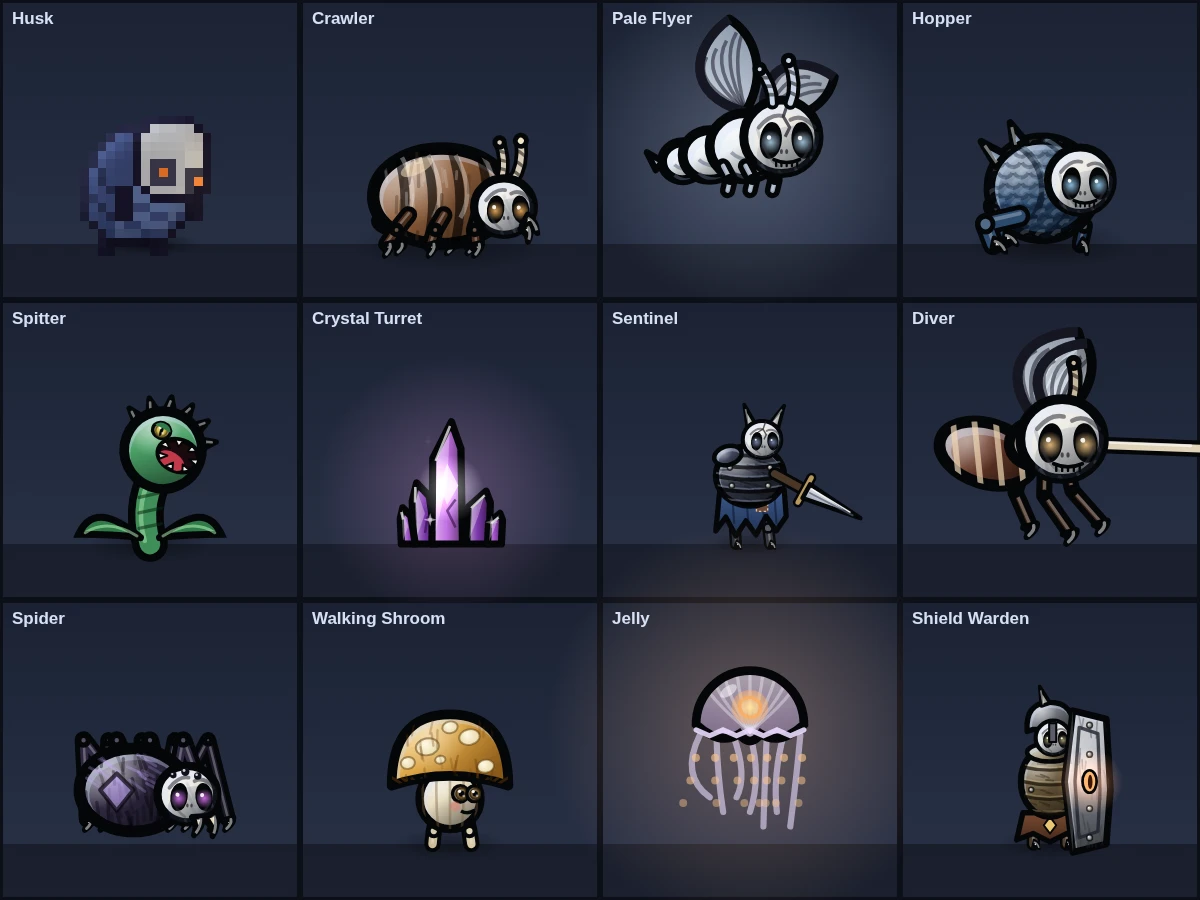
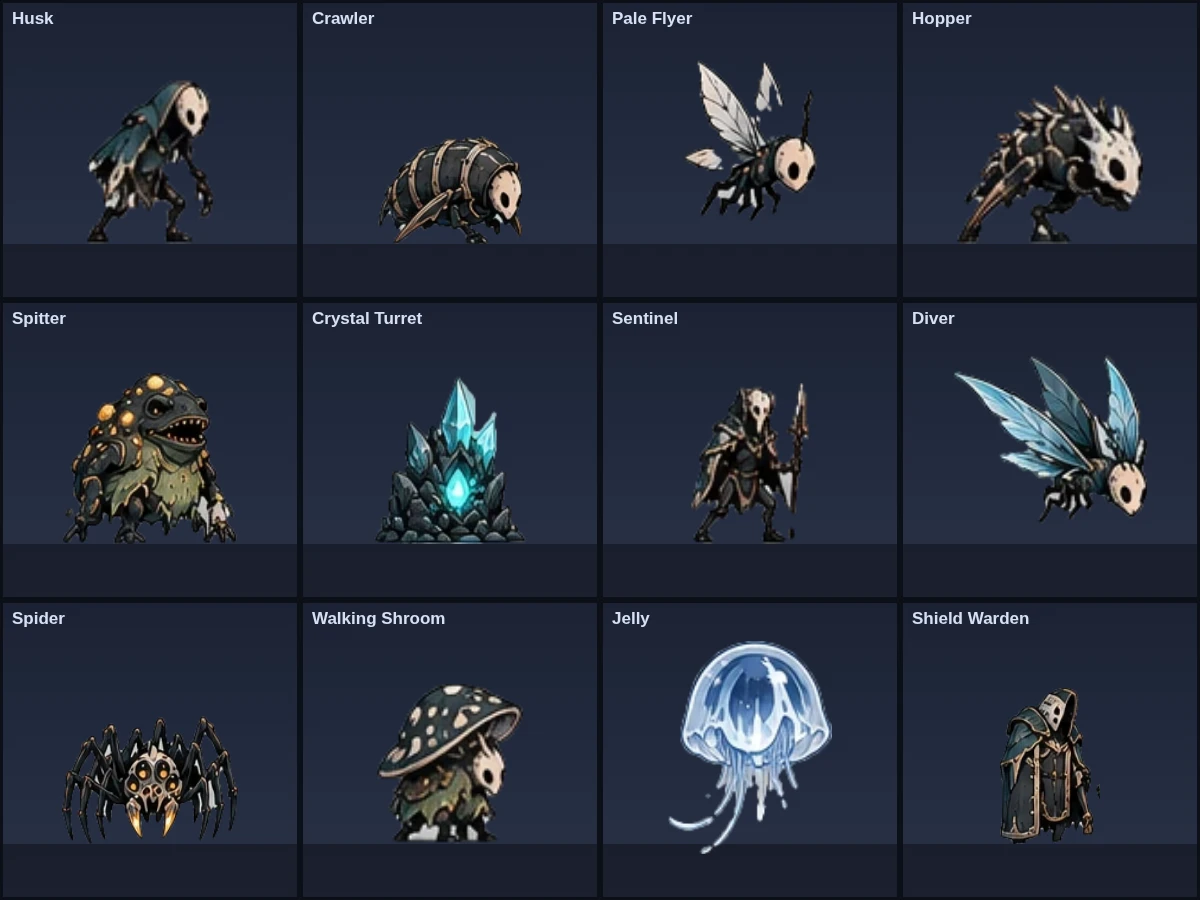
Creatures: the 28 pose sheets cut and packed, every ordinary creature now drawn from its own poses with light motion

diff --git a/duskwell/js/art_frames.js b/duskwell/js/art_frames.js
@@ -1,0 +1,137 @@
+'use strict';
+// The creatures drawn from the owner's pose sheet (art/creatures/creatures.webp, cut and packed by tools/sprites/cut_creatures.py).
+// Each creature has a few poses (idle first); this picks one from what the creature is doing and moves it a little (breathing,
+// walking bounce, squash before an attack, spinning when it rolls). The poses are used exactly as drawn, never repainted.
+// Creatures that are still missing a pose, or are in a state the sheet does not show (buried, a pile of bones), fall back
+// to the old procedural drawing, so nothing disappears.
+const FrameArt = (() => {
+  const img = new Image(); img.src = 'art/creatures/creatures.webp';
+  const ready = () => img.complete && img.naturalWidth > 0;
+  // per creature: which poses to use for idle / move / attack (/ air up, air down), how big the first idle pose is
+  // compared with the creature's box (h: of its height, w: cap by its width), and a few special switches
+  const CFG = {
+    husk: { idle: [1], move: [1, 2], atk: [2], h: 1.15 },
+    crawler: { idle: [0], move: [0, 1], atk: [1], h: 1.2, w: 1.35 },
+    flyer: { idle: [0, 1], move: [0, 1], atk: [2], h: 1.35, rate: 9 },
+    hopper: { idle: [0], move: [0], atk: [0], air: [1, 2], h: 1.15, w: 1.5 },
+    spitter: { idle: [2], move: [2], atk: [0, 1], h: 1.2 },
+    shard: { idle: [0], move: [0], atk: [1], h: 1.2 },
+    sentinel: { idle: [0], move: [3, 0], atk: [2], h: 1.12 },
+    diver: { idle: [2], move: [2], atk: [3], h: 1.4, rate: 10 },
+    spider: { idle: [0], move: [0, 2], atk: [2], h: 1.3, w: 1.5 },
+    shroom: { idle: [0], move: [0, 1, 2], atk: [1], h: 1.15 },
+    jelly: { idle: [0, 1], move: [0, 1], atk: [1], h: 1.3, bob: 3 },
+    warden: { idle: [0], move: [1, 3], atk: [2], h: 1.1 },
+    ram: { idle: [0], move: [1], atk: [2], h: 1.15, w: 1.35 },
+    mole: { idle: [0], move: [1, 2], atk: [3], h: 1.2, w: 1.5, orig: e => e.buried },
+    lavaworm: { idle: [0], move: [0], atk: [2], h: 1.3, w: 1.55, orig: e => e.buried },
+    imp: { idle: [0], move: [1, 2], atk: [3], h: 1.15 },
+    veil: { idle: [0], move: [1, 2], atk: [3, 4], h: 1.1, alpha: true, bob: 3 },
+    roller: { idle: [0], move: [0, 1], atk: [2, 3], h: 1.2, w: 1.35, spinAtk: true },
+    slime: { idle: [0], move: [0, 2], atk: [1], h: 1.2, w: 1.35 },
+    chainman: { idle: [0], move: [0], atk: [0], h: 1.1, crop: [0, 0.7], extra: 'chain' },
+    moth: { idle: [0, 1], move: [0, 1], atk: [1], h: 1.5, rate: 8 },
+    icicle: { idle: [0], move: [0], atk: [1], top: true, h: 1.0 },
+    heap: { idle: [0], move: [0], atk: [0], h: 1.15, orig: e => e.currentState === 'pile' || e.currentState === 'rising' || e.currentState === 'skull' },
+    skullbat: { idle: [1], move: [1, 3], atk: [0, 2], h: 1.5, rate: 9 },
+    censer: { idle: [0], move: [0], atk: [0], h: 1.15, extra: 'censer' },
+    lensling: { idle: [0], move: [0], atk: [0], h: 1.1 },
+    orrery: { idle: [0], move: [0], atk: [0], h: 1.7, extra: 'orrery' },
+    lunarhare: { idle: [2], move: [2, 3], atk: [0], air: [1, 1], h: 1.15, w: 1.5 },
+  };
+  const K = 1.35;                                   // the drawings are bigger than the boxes that hurt and get hurt
+  const ALIAS = { slimelet: 'slime', brood_child: 'spider' };
+
+  const pickFrame = (list, t, rate, ph) => list[Math.floor(t * rate + ph) % list.length];
+  function frameFor(c, e, t, ph) {
+    const st = e.currentState, acting = st === 'attack' || st === 'anticipation';
+    if (acting && c.atk) return pickFrame(c.atk, t, 8, ph);
+    if (c.air && !e.onGround && !e.isDummy) return c.air[e.vy < 0 ? 0 : 1];
+    const moving = Math.abs(e.vx || 0) > 10 || (c.rate && c.rate > 8) || e.isDummy && c.move && c.move.length > 1 && false;
+    if (moving && c.move) return pickFrame(c.move, t, c.rate || 5, ph);
+    return pickFrame(c.idle, t, c.rate ? c.rate * 0.6 : 2, ph);
+  }
+
+  function draw(g, e, t, kind) {
+    const c = CFG[kind], fr = CREATURE_FRAMES[kind], ph = (e.ph || (e.x || 0) * 0.013) % 7;
+    const fi = Math.min(fr.length - 1, frameFor(c, e, t, ph)), r = fr[fi], ref = fr[Math.min(fr.length - 1, c.idle[0])];
+    // one scale for every pose of the creature, set by the first idle pose
+    const sc = K * Math.min(e.h * (c.h || 1.2) / ref[3], e.w * (c.w || 1.5) / ref[2]);
+    const st = e.currentState, face = e.face || 1;
+    let sx = 1, sy = 1, rot = 0, dx = 0, dy = 0;
+    const moving = Math.abs(e.vx || 0) > 10;
+    if (st === 'anticipation') { const k = clamp((e.stateT || 0) / 0.5, 0, 1); sy = 1 - 0.12 * k; sx = 1 + 0.07 * k; dx = -face * 2 * k; }
+    else if (st === 'attack' && !c.spinAtk) { sx = 1.06; sy = 0.97; }
+    else if (moving) { dy = -Math.abs(Math.sin(t * 9 + ph)) * 1.6; rot = Math.sin(t * 9 + ph) * 0.03; }
+    else sy = 1 + Math.sin(t * 2.4 + ph) * 0.018;
+    if (c.bob) dy += Math.sin(t * 2 + ph) * c.bob;
+    const fl = e.flash > 0;
+    let w = r[2] * sc, h = r[3] * sc, a = 1;
+    if (c.alpha) { a = clamp(e.alpha === undefined ? 1 : e.alpha, 0, 1); if (a < 0.02) return; }
+    const flying = FLYING.has(kind), cx = e.cx, baseY = c.top ? e.y : flying ? e.cy + h / 2 : e.y + e.h;
+    if (!flying && !c.top && !e.isDummy && st !== 'attack') Pixel.shadow(g, cx, e.y + e.h, Math.min(e.w, w) * 0.55);
+    g.save(); g.translate(cx + dx, baseY + dy);
+    if (c.spinAtk && st === 'attack') { g.translate(0, -h / 2); g.rotate(t * 14 * face); g.translate(0, h / 2); }
+    g.scale(face, 1); if (rot) g.rotate(rot * face); g.scale(sx, sy);
+    g.imageSmoothingEnabled = true; g.imageSmoothingQuality = 'high'; g.globalAlpha *= a;
+    // a part of the pose can be left out (the chain bearer's ball is drawn live)
+    const cr = c.crop, srcX = r[0] + (cr ? r[2] * cr[0] : 0), srcW = r[2] * (cr ? cr[1] - cr[0] : 1);
+    const ox = -w / 2, oy = c.top ? 0 : -h;
+    if (c.circle) {                                                                  // keep only a round centre (the orrery's core and rings)
+      const R = Math.min(w, h) * c.circle; g.save(); g.beginPath(); g.arc(0, c.top ? h / 2 : -h / 2, R, 0, 7); g.clip();
+    }
+    g.drawImage(img, srcX, r[1], srcW, r[3], ox, oy, srcW * sc, h);
+    if (fl) { g.save(); g.filter = 'brightness(0) invert(1)'; g.globalAlpha *= 0.8; g.drawImage(img, srcX, r[1], srcW, r[3], ox, oy, srcW * sc, h); g.restore(); }
+    if (c.circle) g.restore();
+    g.restore();
+    if (c.extra && EXTRA[c.extra]) EXTRA[c.extra](g, e, t, sc);
+  }
+
+  // live parts that belong to the creature's behaviour, drawn over its pose
+  const EXTRA = {
+    chain(g, e, t) {                                                                  // the chain and the spiked ball of the chain bearer
+      if (!e.ball) return;
+      const st = e.currentState, fl = e.flash > 0;
+      const hx = e.cx + (e.face || 1) * 12, hy = e.y + e.h - 36, dx = e.ball.x - hx, dy = e.ball.y - hy, n = Math.max(3, Math.round(Math.hypot(dx, dy) / 6));
+      for (let k = 1; k < n; k++) { const u = k / n, x = hx + dx * u, y = hy + dy * u + Math.sin(u * Math.PI) * 3; g.save(); g.translate(x, y); g.rotate(Math.atan2(dy, dx) + (k % 2 ? 1.2 : 0)); g.strokeStyle = INK; g.lineWidth = 3.4; g.beginPath(); g.ellipse(0, 0, 3.4, 2, 0, 0, 7); g.stroke(); g.strokeStyle = '#a8a8b4'; g.lineWidth = 1.6; g.stroke(); g.restore(); }
+      g.save(); g.translate(e.ball.x, e.ball.y); g.rotate(e.ang * 2);
+      if (st === 'attack') bloom(g, 0, 0, 44, '#ff9c5a', 0.28);
+      for (let i = 0; i < 8; i++) { const a = i * Math.PI / 4; spikeD(g, Math.cos(a) * 9, Math.sin(a) * 9, a, 11, 3.4, '#b4b4c0', fl); }
+      formD(g, ell(0, 0, 12, 12), [0, 0, 12, 12], '#3a3a44', { flash: fl, spec: 0.55, lw: 2.8 }); if (!fl) { for (let i = 0; i < 4; i++) rivetD(g, Math.cos(i * 1.57 + 0.78) * 6, Math.sin(i * 1.57 + 0.78) * 6, 1.3); }
+      g.restore();
+    },
+    orrery(g, e, t) {                                                                 // the three orbs on their thin arms
+      const fl = e.flash > 0;
+      g.save(); g.translate(e.cx, e.cy);
+      for (let i = 0; i < 3; i++) {
+        const o = e.orbPos(i), ox = o.x - e.cx, oy = o.y - e.cy;
+        g.strokeStyle = 'rgba(200,170,100,0.65)'; g.lineWidth = 1.2; g.beginPath(); g.moveTo(0, 0); g.lineTo(ox, oy); g.stroke();
+        bloom(g, ox, oy, 20, '#ffe9a0', 0.5);
+        formD(g, ell(ox, oy, 7, 7), [ox, oy, 7, 7], ['#ffd070', '#9fd0ff', '#ff9bd6'][i], { flash: fl, spec: 0.7, lw: 2 });
+      }
+      g.restore();
+    },
+    censer(g, e, t) {                                                                 // the chain from the ceiling to the lid
+      const fl = e.flash > 0, ax = e.isDummy ? e.cx + 8 * Math.sin(t * 1.2) : e.ax, ay = e.isDummy ? e.cy - 78 : e.ay;
+      const bx = e.cx, by = e.cy - 26, n = Math.max(3, Math.round(Math.hypot(bx - ax, by - ay) / 9));
+      for (let i = 0; i <= n; i++) { const u = i / n, x = lerp(ax, bx, u), y = lerp(ay, by, u); g.save(); g.translate(x, y); g.rotate(Math.atan2(by - ay, bx - ax) + (i % 2 ? Math.PI / 2 : 0)); g.fillStyle = INK; ellipse(g, 0, 0, 5.4, 2.8); g.fill(); g.strokeStyle = fl ? '#fff' : '#9a8a64'; g.lineWidth = 1.6; ellipse(g, 0, 0, 4.2, 1.8); g.stroke(); g.restore(); }
+    },
+  };
+
+  function install() {
+    for (const kind of Object.keys(CFG)) {
+      const target = kind;
+      for (const k of [kind, ...Object.keys(ALIAS).filter(a => ALIAS[a] === kind)]) {
+        const orig = Art.enemy[k];
+        Art.enemy[k] = function (g, e, t) {
+          const c = CFG[target];
+          if (!ready() || !CREATURE_FRAMES[target] || (c.orig && c.orig(e)) || (e.gone && c.top)) return orig ? orig(g, e, t) : undefined;
+          if (c.top && e.gone) return;
+          draw(g, e, t, target);
+        };
+      }
+    }
+  }
+  install();
+  return { ready, CFG };
+})();

diff --git a/duskwell/tools/gallery.js b/duskwell/tools/gallery.js
@@ -6,7 +6,8 @@ const { open } = require('../tests/lib');
 const OUT = process.argv[2] || path.join(__dirname, '..', 'docs', 'gallery');
 (async () => {
   fs.mkdirSync(OUT, { recursive: true });
-  const { browser, page, errors } = await open();
+  const { browser, page, errors } = await open({ http: true });
+  await page.waitForFunction(() => FrameArt.ready() && Puppet.ready(), null, { timeout: 8000 });
   await page.waitForTimeout(600);
   const save = (name, url) => { fs.writeFileSync(path.join(OUT, name), Buffer.from(url.split(',')[1], 'base64')); console.log('written', name); };
   const sheet = (name, body, args) => page.evaluate(body, args).then(url => save(name, url));
@@ -21,7 +22,7 @@ const OUT = process.argv[2] || path.join(__dirname, '..', 'docs', 'gallery');
       const gr = g.createLinearGradient(0, y0, 0, y0 + ch); gr.addColorStop(0, '#1b2233'); gr.addColorStop(1, '#2a3248'); g.fillStyle = gr; g.fillRect(x0 + 3, y0 + 3, cw - 6, ch - 6);
       g.fillStyle = 'rgba(0,0,0,0.35)'; g.fillRect(x0 + 3, y0 + ch - 56, cw - 6, 53);
       const dm = Art.creatureDummy(k, boss), w = dm ? dm.w : 40, h = dm ? dm.h : 40, fly = FLYING.has(k);
-      const s = Math.max(1.2, Math.min((cw - 60) / (w * (boss ? 1.5 : 1.7)), (ch - 90) / (h * (boss ? 1.55 : 1.8)), boss ? 3.2 : 5));
+      const s = Math.max(1.2, Math.min((cw - 60) / (w * (boss ? 1.5 : 2.3)), (ch - 90) / (h * (boss ? 1.55 : 2)), boss ? 3.2 : 5));
       g.save(); g.translate(x0 + cw / 2, y0 + ch - 56);
       Art.drawCreature(g, k, boss, 0, fly ? -(ch - 90) / 2 : 0, s, 1.3 + i * 0.37, { face: 1 });
       g.restore();
@@ -69,5 +70,5 @@ const OUT = process.argv[2] || path.join(__dirname, '..', 'docs', 'gallery');
     return c.toDataURL('image/webp', 0.9);
   });
   console.log(errors.join('|') || 'no page errors');
-  await browser.close();
+  await browser.close(); process.exit(0);
 })();

diff --git a/duskwell/js/creatures_meta.js b/duskwell/js/creatures_meta.js
@@ -1,0 +1,3 @@
+'use strict';
+// made by tools/sprites/cut_creatures.py: the poses of every creature in art/creatures/creatures.webp as [x, y, w, h], idle first
+const CREATURE_FRAMES = {"husk":[[878,416,81,85],[228,676,54,70],[2,750,86,63]],"crawler":[[237,512,104,79],[296,598,119,74]],"flyer":[[641,416,73,90],[572,416,67,92],[850,309,60,95]],"hopper":[[453,676,78,68],[910,676,79,66],[2,815,78,40]],"spitter":[[717,512,114,76],[417,598,125,74],[109,195,114,111]],"shard":[[251,309,93,101],[64,598,144,75]],"sentinel":[[658,512,57,77],[221,2,74,151],[833,512,89,76],[882,598,67,72]],"diver":[[138,750,70,62],[383,750,82,55],[369,416,107,93],[579,309,83,98]],"spider":[[413,195,148,109],[75,512,160,83]],"shroom":[[924,512,68,76],[544,598,78,74],[624,598,62,74],[2,195,105,112]],"jelly":[[131,309,56,103],[557,2,92,119],[467,750,52,53],[2,2,66,191]],"warden":[[400,2,82,127],[2,676,119,72],[123,676,54,71],[2,512,71,84]],"ram":[[346,309,105,100],[679,676,109,67],[210,750,116,61]],"mole":[[2,416,123,94],[343,512,236,79]],"lavaworm":[[655,750,229,52],[127,416,240,94]],"imp":[[2,598,60,76],[581,512,75,79],[766,416,64,86],[719,2,71,116]],"veil":[[297,2,68,147],[716,416,48,87],[832,416,44,86],[664,309,87,97],[478,416,92,93]],"roller":[[284,676,107,70],[521,750,132,53],[533,676,69,68],[604,676,73,68]],"slime":[[210,598,84,75],[183,815,136,38],[796,598,84,73],[393,676,58,70]],"chainman":[[70,2,149,173]],"moth":[[792,2,152,115],[563,195,153,109]],"icicle":[[365,195,46,110],[367,2,31,131],[484,2,71,125],[2,309,26,105]],"heap":[[718,195,141,109]],"skullbat":[[688,598,106,74],[82,815,99,39],[886,750,66,49],[225,195,138,111]],"censer":[[189,309,60,102],[651,2,66,119],[90,750,46,63]],"lensling":[[30,309,99,105]],"orrery":[[753,309,95,97],[453,309,124,100]],"lunarhare":[[790,676,118,67],[861,195,135,108],[328,750,53,59],[179,676,47,71]]};

diff --git a/duskwell/index.html b/duskwell/index.html
@@ -108,6 +108,8 @@ canvas{display:block;background:var(--stage);border-radius:4px;box-shadow:0 0 40
 <script src="js/bosses.js"></script>
 <script src="js/enemies_deep.js"></script>
 <script src="js/art_deep.js"></script>
+<script src="js/creatures_meta.js"></script>
+<script src="js/art_frames.js"></script>
 <script src="js/bosses_deep.js"></script>
 <script src="js/skins.js"></script>
 <script src="js/charms.js"></script>

diff --git a/duskwell/tools/sprites/cut_creatures.py b/duskwell/tools/sprites/cut_creatures.py
@@ -1,0 +1,130 @@
+#!/usr/bin/env python3
+"""Cuts the creatures sheet (art/source/creatures/_sheet_creatures.png) into every separate piece (art/source/creatures/<cell>/cNN.png),
+then packs the chosen poses of each creature into the game's atlas (art/creatures/creatures.webp + js/creatures_meta.js).
+Poses are listed per creature in FRAMES: (cell, piece) or (cell, piece, 's') to split a merged piece at the vertical gaps between its poses.
+The first pose is the idle, the second the walk/alt, the third the attack/anticipation; the rest are extra."""
+import json, os, sys
+import numpy as np, cv2
+from scipy import ndimage as ndi
+from PIL import Image
+
+HERE = os.path.dirname(os.path.abspath(__file__))
+ROOT = os.path.join(HERE, '..', '..')
+SRC = os.path.join(ROOT, 'art', 'source', 'creatures')
+CELLS = json.load(open(os.path.join(HERE, 'creature_cells.json')))
+
+# creature -> poses (idle first). Facing right unless FLIP lists it.
+BOXES = json.load(open(os.path.join(HERE, 'creature_boxes.json')))
+FRAMES = json.load(open(os.path.join(HERE, 'creature_frames.json')))
+
+LABEL_OVERLAP = {'moth': (170, 22)}
+
+def segment():
+    im = cv2.imread(os.path.join(SRC, '_sheet_creatures.png'), cv2.IMREAD_COLOR)
+    bg = np.array([186, 186, 186], np.float32)
+    dist = np.linalg.norm(im.astype(np.float32) - bg, axis=2)
+    hsv = cv2.cvtColor(im, cv2.COLOR_BGR2HSV)
+    out = {}
+    glob = np.zeros((im.shape[0], im.shape[1], 4), np.uint8)
+    for n, (x0, y0, x1, y1) in CELLS.items():
+        sub = im[y0:y1, x0:x1]; near = dist[y0:y1, x0:x1] < 22
+        lab, k = ndi.label(near)
+        edge = set(np.unique(np.concatenate([lab[0], lab[-1], lab[:, 0], lab[:, -1]]))) - {0}
+        sizes = ndi.sum(near, lab, range(1, k + 1))
+        big = {i + 1 for i, v in enumerate(sizes) if v >= 60}                 # grey gaps between the legs are background too, not only the outer sheet
+        fg = ~np.isin(lab, list(edge | big))
+        grey = (hsv[y0:y1, x0:x1][..., 1] < 40) & (dist[y0:y1, x0:x1] < 75) & (hsv[y0:y1, x0:x1][..., 2] > 95)
+        for _ in range(3):
+            e = fg & ~ndi.binary_erosion(fg); fg = fg & ~(e & grey)
+        # the soft cast shadows under the feet: grey, unsaturated, mid-tone, peeled in from the boundary until the dark outline stops it
+        shadow = (hsv[y0:y1, x0:x1][..., 1] < 36) & (hsv[y0:y1, x0:x1][..., 2] >= 90) & (hsv[y0:y1, x0:x1][..., 2] <= 188)
+        for _ in range(40):
+            e = fg & ~ndi.binary_erosion(fg); gone = e & shadow
+            if not gone.any(): break
+            fg = fg & ~gone
+        if n in LABEL_OVERLAP: fg[:LABEL_OVERLAP[n][1], :LABEL_OVERLAP[n][0]] = False        # a printed name touching the art
+        fg = ndi.binary_opening(fg, iterations=1)
+        holes = ndi.binary_fill_holes(fg) & ~fg; hl, hn = ndi.label(holes)
+        for i, v in enumerate(ndi.sum(holes, hl, range(1, hn + 1)), 1):
+            if v < 80: fg |= hl == i                                         # tiny holes (an eye, a rivet) belong to the art
+        pl, pn = ndi.label(ndi.binary_dilation(fg, iterations=3))
+        alpha = cv2.GaussianBlur(fg.astype(np.float32), (0, 0), 0.8); alpha = np.clip((alpha - 0.25) / 0.5, 0, 1)
+        rgba = np.dstack([sub, (alpha * 255).astype(np.uint8)]); glob[y0:y1, x0:x1] = rgba
+        comps = []
+        for i, sl in enumerate(ndi.find_objects(pl), 1):
+            area = int(fg[sl][pl[sl] == i].sum())
+            ya, yb, xa, xb = sl[0].start, sl[0].stop, sl[1].start, sl[1].stop
+            if area < 250 or (ya < 4 and yb - ya < 24 and xa < 110): continue          # specks and the printed label
+            comps.append((ya // 60, xa, ya, xb, yb, i))
+        comps.sort()
+        pieces = []
+        for j, (_, xa, ya, xb, yb, i) in enumerate(comps):
+            piece = (pl[ya:yb, xa:xb] == i) & ndi.binary_dilation(fg[ya:yb, xa:xb], iterations=2)
+            crop = rgba[ya:yb, xa:xb].copy(); crop[..., 3] = np.where(piece, crop[..., 3], 0)
+            pieces.append(crop)
+        out[n] = pieces
+    out['_global'] = glob
+    return out
+
+def largest(a, keep_all=False):
+    """keeps the biggest connected piece of a crop (bits of the neighbouring pose inside the box are dropped)"""
+    m = ndi.binary_dilation(a[..., 3] > 12, iterations=3); lab, n = ndi.label(m)
+    if n <= 1: return a
+    sizes = ndi.sum(a[..., 3] > 12, lab, range(1, n + 1))
+    keep = [i + 1 for i, v in enumerate(sizes) if (keep_all and v > 0.06 * sizes.max()) or v == sizes.max()]
+    out = a.copy(); out[..., 3] = np.where(np.isin(lab, keep), a[..., 3], 0); return out
+
+def trim(a):
+    ys, xs = np.where(a[..., 3] > 12)
+    return a[ys.min():ys.max() + 1, xs.min():xs.max() + 1]
+
+def split_gaps(a, min_gap=3, min_w=40):
+    cols = (a[..., 3] > 12).any(axis=0); parts, start = [], None
+    gap = 0
+    for x, v in enumerate(cols):
+        if v:
+            if start is None: start = x
+            gap = 0
+        elif start is not None:
+            gap += 1
+            if gap >= min_gap:
+                parts.append((start, x - gap + 1)); start = None
+    if start is not None: parts.append((start, len(cols)))
+    outs = [trim(a[:, s:e]) for s, e in parts if e - s >= min_w and (a[:, s:e, 3] > 12).sum() > 600]
+    return outs
+
+def main():
+    pieces = segment(); glob = pieces.pop('_global')
+    for n, ps in pieces.items():
+        d = os.path.join(SRC, n); os.makedirs(d, exist_ok=True)
+        for j, c in enumerate(ps): cv2.imwrite(os.path.join(d, 'c%02d.png' % j), c)
+    sel = {}
+    for kind, items in FRAMES.items():
+        fr = []
+        for it in items:
+            if it[0] == 'rect':
+                x0, y0, x1, y1 = it[1:5]; fr.append(trim(largest(glob[y0:y1, x0:x1]))); continue
+            cell, idx = it[0], it[1]
+            _, bx, by, bw, bh, _ = BOXES[cell][idx]                                    # the piece's box on the sheet
+            a = largest(glob[by:by + bh, bx:bx + bw], keep_all=len(it) > 2 and it[2] == 's')
+            if len(it) > 2 and it[2] == 's': fr += [f for f in split_gaps(a)]
+            else: fr.append(trim(a))
+        sel[kind] = fr
+    # pack
+    W, x, y, row, pos = 1024, 2, 2, 0, {}
+    flat = [(kind, i, f) for kind, fr in sel.items() for i, f in enumerate(fr)]
+    for kind, i, f in sorted(flat, key=lambda t: -t[2].shape[0]):
+        h, w = f.shape[:2]
+        if x + w + 2 > W: x, y, row = 2, y + row + 2, 0
+        pos[(kind, i)] = [x, y, w, h]; x += w + 2; row = max(row, h)
+    H = y + row + 2
+    atlas = Image.new('RGBA', (W, H), (0, 0, 0, 0))
+    for (kind, i), (px, py, w, h) in pos.items():
+        f = sel[kind][i]; atlas.paste(Image.fromarray(cv2.cvtColor(f, cv2.COLOR_BGRA2RGBA)), (px, py))
+    od = os.path.join(ROOT, 'art', 'creatures'); os.makedirs(od, exist_ok=True)
+    atlas.save(os.path.join(od, 'creatures.webp'), quality=90, method=6)
+    meta = {k: [pos[(k, i)] for i in range(len(v))] for k, v in sel.items()}
+    open(os.path.join(ROOT, 'js', 'creatures_meta.js'), 'w').write("'use strict';\n// made by tools/sprites/cut_creatures.py: the poses of every creature in art/creatures/creatures.webp as [x, y, w, h], idle first\nconst CREATURE_FRAMES = " + json.dumps(meta, separators=(',', ':')) + ";\n")
+    print(W, H, os.path.getsize(os.path.join(od, 'creatures.webp')), 'bytes;', {k: len(v) for k, v in sel.items()})
+
+main()

diff --git a/duskwell/README.md b/duskwell/README.md
@@ -15,6 +15,7 @@
 - **حركات قاتلة (فنون النصل)** يعلّمها الحدّاد: **تمزيق القمر** (اضغط الضربة مطوّلاً حتى يلمع النصل ثم اتركها: هلال قمري هائل يخترق الأعداء كلهم)، و**اندفاع الغسق** (اضغط الضربة وأنت مندفع: تشقّ الأعداء مراراً وأنت محصّن، وتُصدر هلالاً في النهاية)، و**نجم الروح** (بروح ممتلئة 66 اضغط الضربة والتعويذة معاً: انفجار يمحو ما حولك ويبدّد كل المقذوفات).
 - **الموسوعة** (قائمة الإيقاف ← الموسوعة): بطاقة لكل مخلوق وزعيم (45 بطاقة) بصورة كبيرة مرسومة بالتفصيل (الوجوه والعيون والمخالب والدروع) ووصف وكيف تتعامل معه؛ يدخلها الوحش حين تراه أول مرة وتُحفظ مع التقدم.
 - **البطل الجديد (`js/art_puppet.js`):** دمية من أجزاء مرسومة (رأس وجذع وذراعان وساقان بعظمتين والسيف والعباءة الطويلة التي تتموّج). الأجزاء مقصوصة بأداة `tools/sprites/cut_parts.py` ومجمَّعة بـ`tools/sprites/pack_hero2.py` في `art/hero/hero2.webp`، وأصولها في `art/source/hero_parts`. وقوف وجري وقفز وسقوط وثلاث ضربات واندفاع وإصابة وجلوس وتشبّث وانقضاض ونداء وشحن وتركيز، وتتلوّن العباءة بحسب العباءة المجهَّزة. وتبقى بقية الأشكال (بكسل أزرق وداكن ومرسوم بالحبر) متاحة من قائمة الإيقاف ← شكل البطل.
+- **المخلوقات الثمانية والعشرون برسومك (`js/art_frames.js`):** كل وحش عادي يُرسم من أوضاعه المرسومة في الورقة كما هي بلا إعادة رسم (`art/source/creatures` فيه الورقة وكل قطعة مقصوصة، و`tools/sprites/cut_creatures.py` يقصّها ويجمّع الأوضاع المختارة في `art/creatures/creatures.webp`). تُختار الوضعية بحسب ما يفعله الوحش (وقوف، حركة، هجوم، قفز)، وتُضاف حركة خفيفة (تنفّس وارتداد وانضغاط قبل الهجوم ودوران عند التدحرج)، وتبقى الأجزاء الحية (سلسلة حامل السلسلة وكراته وكرات المرصد وسلسلة المبخرة) مرسومة بالكود. وإن كان الوحش في حالة لا تظهر في الورقة (مدفون أو كومة عظام) يعود للرسم القديم.
 - **رسم مفصّل لكل المخلوقات والبطل:** `js/art_detail.js` صندوق أدوات (أشكال مضيئة مظلّلة، وجوه وعيون، أسنان ومخالب، قشور وفراء وتهشير) و`js/art_creatures.js` و`js/art_deep.js` يرسمان كل عدو وزعيم به؛ و`js/art_npcs.js` للشخصيات؛ والبطل بنمط «مرسوم بالتفصيل» (قناع مظلل وقرنان بحلقات نمو وعباءة وسلاح) إضافة لرسمك البكسلي الذي يبقى الافتراضي.
 - **تميمتان جديدتان:** عباءة العاصفة (القفزة المزدوجة أعلى بالربع، والرياح الجانبية تدفعك أقل) من طائر العاصفة، وصدى النصل (كل ضربة ثالثة تُطلق موجة شبحية) من توأم الجوّال. فصار للعبة 19 تميمة، ثم تميمتان من الزعيمين الجديدين: **همس القبور** (كل عدو تقتله يملأ 8 روح) من طاغية النخاع، و**خطوة القمر** (سقوط أبطأ) من وصيّ الكسوف، فالمجموع 21.
 - **تسعة أعداء جدد بسلوكيات مختلفة:** الخلد والدودة الجمرية (يحفران ويظهران تحت قدميك ولا تؤذيهما وهما مدفونان)، وعفريت القنابل (يحافظ على مسافته ويقذف قنابل تنفجر دائرة نار)، والحجاب (يختفي ويظهر بجانبك ثم يكشف نفسه لحظة)، والمدحرج (لا تصدّه السيوف وهو ملتف، اقفز فوقه)، والهلام (ينقسم إلى هلاميتين صغيرتين)، وحامل السلسلة (كرة تدور وتمتد)، وفراشة الليل (تدور حولك وتنقضّ، وتضيء)، والجليدة (تتدلى وترتجف ثم تسقط وتتحطم وتنمو من جديد).

diff --git a/duskwell/CREDITS.md b/duskwell/CREDITS.md
@@ -54,3 +54,6 @@ fantasy and Metroidvania motifs; only the ideas are shared.
 
 ## البطل الجديد (art/source/hero_parts, art/hero)
 ورقة الأجزاء من أعمال صاحب المشروع (تصميم أصلي: قناع بيضاوي مشقوق بلا قرون وعباءة ممزقة)، وقصصتُها ورتّبتُها وحرّكتُها بكودنا. على صاحب المشروع التأكد من أن حقوق استعمالها تجارياً مضمونة له.
+
+## المخلوقات (art/source/creatures, art/creatures)
+ورقة الأوضاع من أعمال صاحب المشروع، وقصصتُها وجمّعتُها وحرّكتُها بكودنا. وورقة إطارات البطل المجاورة محفوظة في المستودع ولم تُدمج بعد. على صاحب المشروع التأكد من أن حقوق استعمالها تجارياً مضمونة له.
